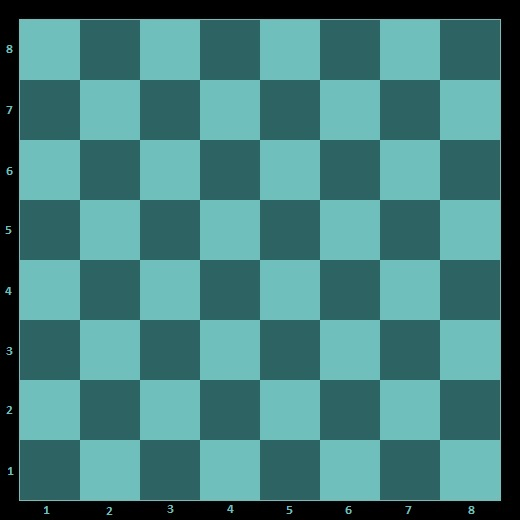
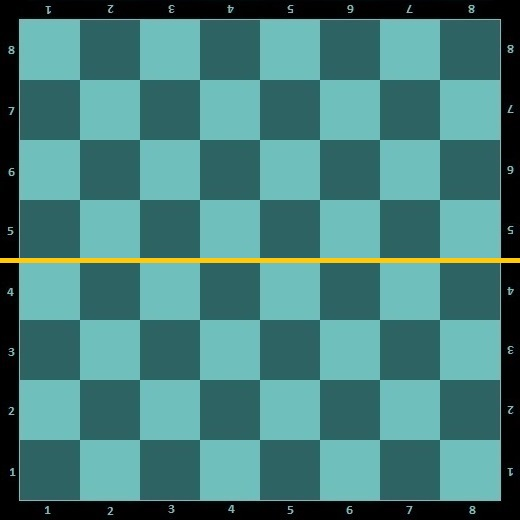
Remove unneeded buttons and flip board

diff --git a/chesssequel.js b/chesssequel.js
@@ -63,7 +63,6 @@ function (dojo, declare) {
                     var player = gamedatas.players[player_id];
 
                     this.placeStartingPiecesOnBoard(player.army, player.color);
-                    // TO DO: Call an animation to put a pulsating glow on their side of the board, later removed when confirming army
                 }
             }
             else // Players have confirmed their armies and their pieces have been added to the database
@@ -86,16 +85,14 @@ function (dojo, declare) {
                 }
             }
 
-            // TODO: Set up your game interface here, according to "gamedatas"
+            if ( gamedatas.players[this.player_id].color === "000000" )
+            {
+                dojo.addClass( 'board', 'flipped' );
+                dojo.query( '.piece' ).addClass( 'flipped' );
+            }
 
             // Setup game notifications to handle (see "setupNotifications" method below)
             this.setupNotifications();
-
-            // When an element with the army_button class is clicked, call pickArmy
-            //dojo.query( '.army_button' ).connect( 'onclick', this, 'pickArmy' );
-
-            // When the confirm army button is clicked, call confirmArmy
-            //dojo.query( '#btn_confirm_army' ).connect( 'onclick', this, 'confirmArmy' );
 
             // Any time an empty square is clicked, call squareClicked
             dojo.query( '.square' ).connect( 'onclick', this, 'squareClicked' );
@@ -253,14 +250,10 @@ function (dojo, declare) {
             this.placeOnObject( piece_id, 'square_'+file+'_'+rank );
         },
 
-        placePiecesOnBoard: function( pieces )
-        {
-            // pieces should be an array of all pieces to place on the board
-            // Format: { piece_id: { file: file, rank: rank, type: type, color: color }, ... }
-        },
-
         placeStartingPiecesOnBoard: function( army_name, player_color )
         {
+            dojo.query( '.flipped' ).removeClass( 'flipped' );
+
             // Gets an array of starting pieces for that army type where:
             // Keys are a name for the piece e.g. "pawn_1"
             // Values are the array [ file, rank, type ] for that piece (on white side)
@@ -595,8 +588,16 @@ function (dojo, declare) {
         notif_pickArmy: function( notif )
         {   
             // Call a function that places the starting pieces for that army_name on the board for that player_id
+            dojo.query( '.flipped' ).removeClass( 'flipped' );
+
             this.placeStartingPiecesOnBoard( notif.args.army_name, notif.args.player_color );
             this.gamedatas.players[ notif.args.player_id ]['army'] = notif.args.army_name;
+
+            if ( this.gamedatas.players[this.player_id].color === "000000" )
+            {
+                dojo.addClass( 'board', 'flipped' );
+                dojo.query( '.piece' ).addClass( 'flipped' );
+            }
         },
 
         notif_confirmArmy: function( notif )
@@ -692,7 +693,15 @@ function (dojo, declare) {
                         this.gamedatas.pieces[notif.args.piece_id]['board_file'] = String(notif.args.values_updated[field][0]);
                         this.gamedatas.pieces[notif.args.piece_id]['board_rank'] = String(notif.args.values_updated[field][1]);
 
+                        dojo.query( '.flipped' ).removeClass( 'flipped' );
+                        
                         this.slideToObject( notif.args.piece_id, 'square_'+notif.args.values_updated[field][0]+'_'+notif.args.values_updated[field][1] ).play();
+                        
+                        if ( this.gamedatas.players[this.player_id].color === "000000" )
+                        {
+                            dojo.addClass( 'board', 'flipped' );
+                            dojo.query( '.piece' ).addClass( 'flipped' );
+                        }
                         break;
 
                     case "if_captured":

diff --git a/chesssequel.css b/chesssequel.css
@@ -73,11 +73,7 @@
     height: 520px;
     background-image: url('img/board.jpg');
     position: relative;
-    float: left;
-}
-
-#info_panel {
-    float: right;
+    margin: 0 auto;
 }
 
 .square {
@@ -111,14 +107,19 @@
 .piecetype_empoweredknight { background-position: -480px 0px; }
 .piecetype_empoweredbishop { background-position: -540px 0px; }
 .piecetype_empoweredrook { background-position: -600px 0px; }
-.piecetype_reaper { background-position: -660px 0px; }
-.piecetype_ghost { background-position: -720px 0px; }
-.piecetype_warriorking { background-position: -780px 0px; }
-.piecetype_wildhorse { background-position: -840px 0px; }
-.piecetype_tiger { background-position: -900px 0px; }
-.piecetype_elephant { background-position: -960px 0px; }
-.piecetype_junglequeen { background-position: -1020px 0px; }
-.piecetype_empoweredqueen { background-position: -1080px 0px; } /* Doesn't have a graphic right now */
+.piecetype_empoweredqueen { background-position: -660px 0px; }
+.piecetype_reaper { background-position: -720px 0px; }
+.piecetype_ghost { background-position: -780px 0px; }
+.piecetype_warriorking { background-position: -840px 0px; }
+.piecetype_wildhorse { background-position: -900px 0px; }
+.piecetype_tiger { background-position: -960px 0px; }
+.piecetype_elephant { background-position: -1020px 0px; }
+.piecetype_junglequeen { background-position: -1080px 0px; }
+
+
+.flipped {
+    transform: rotate(180deg);
+}
 
 .possible_move {
     background-color: white;
@@ -132,15 +133,6 @@
     opacity: 0.2;
     filter:alpha(opacity=20); /* For IE8 and earlier */  
     cursor: pointer; 
-}
-
-.bgabutton_beddac_temp {
-    background: #beddac;
-    border: 1px solid #000000;
-}
-
-.btn_container {
-    border: 3px solid #000000;
 }
 
 .attacked_square {
